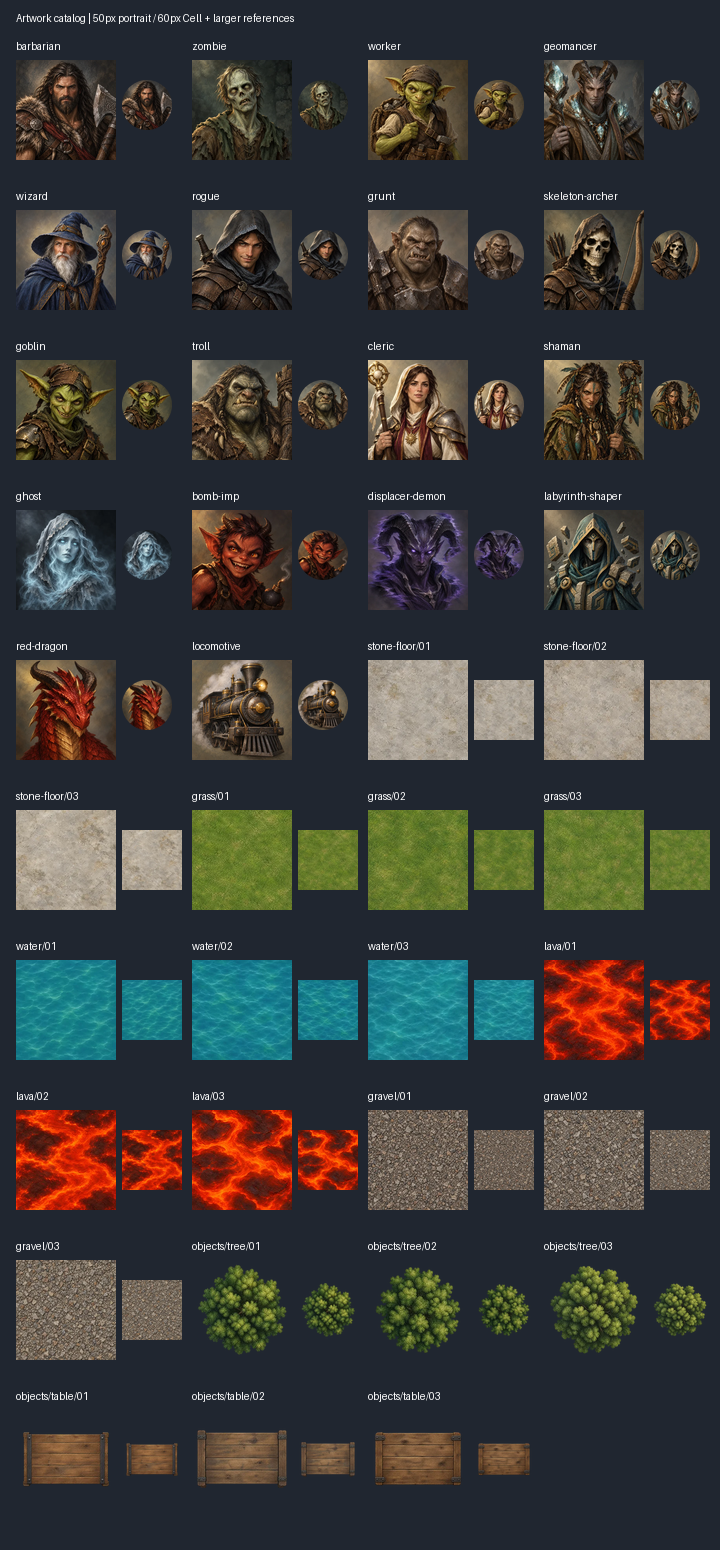
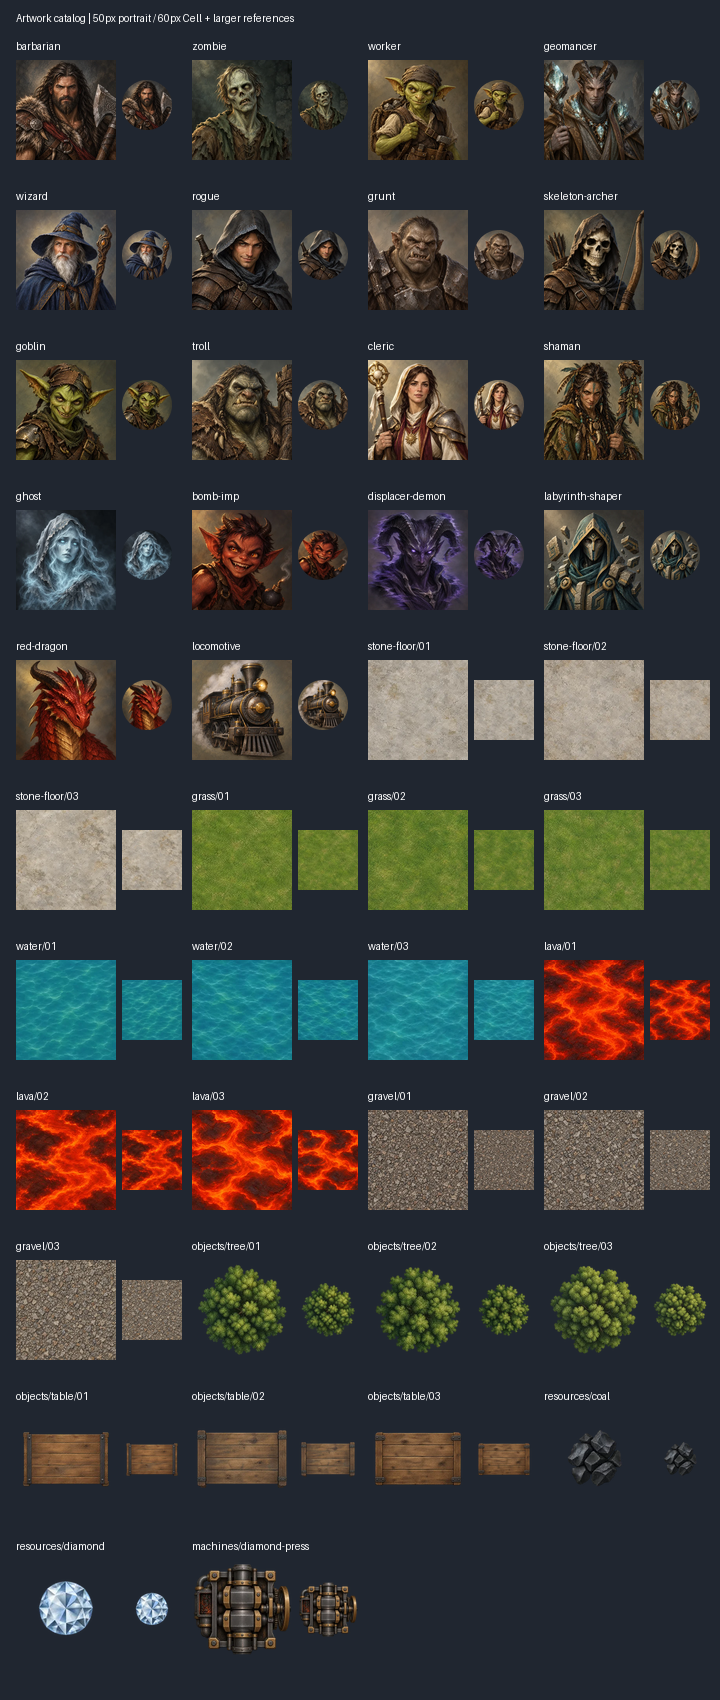
Integrate resource and Diamond Press artwork

diff --git a/ProjectDelve.Web/wwwroot/board-visuals.js b/ProjectDelve.Web/wwwroot/board-visuals.js
@@ -57,11 +57,14 @@ export const boardVisuals = {
     "red-dragon-type": { image: "./art/units/red-dragon.webp" },
     "locomotive-type": { image: "./art/units/locomotive.webp" }
   },
-  machine: { default: { fill: "#566776", detail: "linear-gradient(135deg, #c8bb8d, #3b4955 45%, #182b36)", glyph: "⚙" } },
+  machine: {
+    default: { fill: "#566776", detail: "linear-gradient(135deg, #c8bb8d, #3b4955 45%, #182b36)", glyph: "⚙" },
+    "diamond-press": { image: "./art/machines/diamond-press.webp", baseTerrain: "StoneFloor" }
+  },
   resource: {
     default: { fill: "#e0c795", glyph: "●" },
-    diamond: { fill: "#b8ecf4", glyph: "◆" },
-    coal: { fill: "#ccc2af", glyph: "●" }
+    diamond: { fill: "#b8ecf4", glyph: "◆", image: "./art/resources/diamond.webp" },
+    coal: { fill: "#ccc2af", glyph: "●", image: "./art/resources/coal.webp" }
   },
   edge: {
     default: { fill: "#45494b", detail: "repeating-linear-gradient(45deg, transparent 0 8px, #e3dcc53a 9px 10px, transparent 11px 18px)" },
@@ -166,7 +169,34 @@ export function applyBoardVisual(node, category, id, context = {}) {
     applyRailArtwork(node, id === "Rail" ? context : null);
   }
   if (category === "edge") applyEdgeArtwork(node, visual.image);
+  if (category === "machine" || category === "resource") applyObjectArtwork(node, visual);
   return visual;
+}
+
+function applyObjectArtwork(node, visual) {
+  // Glyphs remain the Classic presentation and the loading/error fallback.
+  let glyph = node.visualGlyph;
+  if (!glyph) {
+    glyph = document.createElement("span"); glyph.className = "visual-glyph";
+    glyph.setAttribute("aria-hidden", "true"); node.visualGlyph = glyph;
+  }
+  glyph.textContent = visual.glyph ?? ""; node.append(glyph);
+  let image = node.objectArtwork;
+  if (!visual.image) {
+    image?.remove(); node.objectArtwork = null; delete node.dataset.artwork;
+    return;
+  }
+  if (!image) {
+    image = document.createElement("img"); image.className = "object-artwork";
+    image.alt = ""; image.draggable = false; image.setAttribute("aria-hidden", "true");
+    node.objectArtwork = image;
+    image.addEventListener("load", () => { if (node.objectArtwork === image) node.dataset.artwork = "ready"; });
+    image.addEventListener("error", () => { if (node.objectArtwork === image) node.dataset.artwork = "missing"; });
+  }
+  node.append(image);
+  if (image.dataset.source !== visual.image) {
+    node.dataset.artwork = "loading"; image.dataset.source = visual.image; image.src = visual.image;
+  }
 }
 
 function applyRailArtwork(node, context) {

diff --git a/ProjectDelve.Web/wwwroot/board-enhanced.css b/ProjectDelve.Web/wwwroot/board-enhanced.css
@@ -3,6 +3,9 @@
 .board-view-toolbar { margin-bottom: 12px; }
 .board-scroll:has(#board[data-view="enhanced"]) { overflow: auto; padding: 5px; }
 .machine-art { display: none !important; }
+#board .machine-labels { display: contents; font-size: inherit; }
+#board .visual-glyph { font-size: inherit; }
+#board .object-artwork { display: none; pointer-events: none; }
 #board .terrain-object-artwork { display: none; pointer-events: none; }
 #board .edge-artwork { display: none; pointer-events: none; }
 #board[data-view="enhanced"] {
@@ -190,6 +193,29 @@
 #board[data-view="enhanced"] .figure.affected-preview { outline: 3px dashed #ffe084; outline-offset: 2px; }
 /* Reserve the top-right Cell corner for Resources, clear of the bottom nameplate. */
 #board[data-view="enhanced"] .resource-marker { top: 2%; bottom: auto; right: 2%; font-size: clamp(12px, calc(var(--cell-size) * .23), 20px); }
+
+/* Transparent object images replace glyphs only after a successful load. */
+#board[data-view="enhanced"] [data-artwork="ready"] > .visual-glyph { visibility: hidden; }
+#board[data-view="enhanced"] [data-artwork="ready"] > .object-artwork {
+  display: block; position: absolute; inset: 0; width: 100%; height: 100%;
+  object-fit: contain; object-position: center;
+}
+#board[data-view="enhanced"] .resource-marker:has(.object-artwork) {
+  display: grid; place-items: center; width: 24px; height: 24px; padding: 0;
+}
+#board[data-view="enhanced"] .resource-marker[data-artwork="ready"] {
+  background: transparent; border: 0; box-shadow: none;
+  filter: drop-shadow(0 1px 1px #111);
+}
+#board[data-view="enhanced"] .machine-cell:has(.object-artwork) .machine-art {
+  position: absolute; inset: 0; width: 100%; height: 100%; border: 0; border-radius: 0;
+}
+#board[data-view="enhanced"] .machine-art[data-artwork="ready"] { background: transparent; }
+#board[data-view="enhanced"] .machine-cell:has(.object-artwork) .machine-labels {
+  display: flex; flex-direction: column; align-items: center; position: absolute;
+  bottom: 2%; left: 2%; right: 2%; z-index: 1; pointer-events: none;
+  background: #18232cdd; border-radius: 3px; line-height: 1.1;
+}
 /* Specific token appearance must not mask shared playback feedback. */
 #board[data-view="enhanced"] .figure.attack-source { box-shadow: 0 0 0 4px #7edfe6; }
 #board[data-view="enhanced"] .figure.attack-target { outline: 3px solid #ffad8e; outline-offset: 3px; }

diff --git a/ProjectDelve.Web/wwwroot/app.js b/ProjectDelve.Web/wwwroot/app.js
@@ -247,12 +247,17 @@ function renderBoard(state, preserveNodes = false, machines = snapshot.presentat
     if (!node) continue;
     node.classList.add("machine-cell");
     const art = text("span", ""); art.className = "machine-art";
-    art.textContent = applyBoardVisual(art, "machine", machine.typeId).glyph;
+    const visual = applyBoardVisual(art, "machine", machine.typeId);
+    if (visual.baseTerrain) applyBoardVisual(node, "terrain", visual.baseTerrain, {
+      seed: snapshot.visualSeed ?? `scenario:${snapshot.scenarioId ?? "legacy"}`,
+      x: machine.position.x, y: machine.position.y });
     art.setAttribute("aria-hidden", "true"); node.append(art);
-    node.append(text("span", machine.name));
-    node.append(text("small", machine.ownerSide == null ? "Public" : `Owner: ${machine.ownerSide}`));
+    const labels = text("span", ""); labels.className = "machine-labels";
+    labels.append(text("span", machine.name));
+    labels.append(text("small", machine.ownerSide == null ? "Public" : `Owner: ${machine.ownerSide}`));
     for (const stored of machine.resourceStorage)
-      node.append(text("small", `${stored.name}: ${stored.quantity}/${stored.capacity}`));
+      labels.append(text("small", `${stored.name}: ${stored.quantity}/${stored.capacity}`));
+    node.append(labels);
     node.title = `${machine.name} (${machine.id}) - ${machine.ownerSide == null ? "Public" : `Owner: ${machine.ownerSide}`}: ${machine.operation}`;
     node.setAttribute("aria-label", `${node.title}. ${machine.resourceStorage.map(r => `${r.name}: ${r.quantity}/${r.capacity}`).join(", ")}`);
   }
@@ -261,7 +266,7 @@ function renderBoard(state, preserveNodes = false, machines = snapshot.presentat
     if (!node) continue;
     const marker = text("span", "");
     marker.className = "resource-marker";
-    marker.textContent = applyBoardVisual(marker, "resource", resource.type.id).glyph;
+    applyBoardVisual(marker, "resource", resource.type.id);
     marker.title = resource.type.name;
     marker.setAttribute("aria-label", resource.type.name);
     node.append(marker);

diff --git a/tools/prepare-artwork.py b/tools/prepare-artwork.py
@@ -31,6 +31,8 @@ ASSETS = [
       for name in ("stone-floor", "grass", "water", "lava", "gravel") for i in range(1, 4)],
     *[(f"terrain/objects/{name}-{i:02}.png", f"terrain/objects/{name}/{i:02}.webp", 256)
       for name in ("tree", "table") for i in range(1, 4)],
+    *[(f"resources/{name}.png", f"resources/{name}.webp", 128) for name in ("coal", "diamond")],
+    ("machines/diamond-press.png", "machines/diamond-press.webp", 256),
     *[(f"edges/{name}.png", f"edges/{name}.webp", (512, 80)) for name in EDGE_CROPS],
 ]
 
@@ -63,7 +65,7 @@ def main():
                 assert original.size == (1774, 887) and original.mode == "RGBA", f"Review changed Edge source: {name}"
                 bounds = original.getchannel("A").point(lambda a: 255 if a >= 8 else 0).getbbox()
                 assert bounds == EDGE_CROPS[Path(name).stem], f"Review changed Edge composition: {name}"
-            if name.startswith("terrain/objects/"):
+            if name.startswith(("terrain/objects/", "resources/", "machines/")):
                 alpha = original.convert("RGBA").getchannel("A")
                 assert alpha.getextrema()[0] == 0 and alpha.getextrema()[1] > 0, f"Review object alpha: {name}"
             assert getattr(original, "n_frames", 1) == 1, f"Review animated source: {name}"
@@ -120,6 +122,7 @@ def main():
     edge_preview([image for asset, image in zip(assets, decoded) if asset[0].startswith("edges/")])
     if not args.edges_only:
         composite_preview(assets, decoded)
+        object_preview(assets, decoded)
         export_tracks(SOURCE, OUTPUT / "railway")
         preview_tracks(SOURCE, OUTPUT, ROOT / "assets/previews/railway.png")
     assert all(sha256(path.read_bytes()).digest() == digest
@@ -167,6 +170,31 @@ def composite_preview(assets, images):
                 if turn == 0:
                     sheet.paste(tile.resize((160, 160), Image.Resampling.LANCZOS), (12 + variant * 248, y + 64))
     sheet.save(ROOT / "assets/previews/composite-terrain.png", optimize=True)
+
+
+def object_preview(assets, images):
+    """Test-owned Machine/Resource samples at minimum and normal Cell sizes."""
+    catalog = {asset[1]: image for asset, image in zip(assets, images)}
+    sheet = Image.new("RGB", (720, 300), "#202630")
+    draw = ImageDraw.Draw(sheet)
+    draw.text((12, 10), "Machines / Resources | 24px markers | 60px + 100px Cells", fill="white")
+    for row, size in enumerate((60, 100)):
+        for col, base in enumerate(("stone-floor", "grass", "gravel")):
+            for i, resource in enumerate(("coal", "diamond")):
+                x, y = 12 + col * 232 + i * 108, 46 + row * 116
+                tile = catalog[f"terrain/{base}/01.webp"].resize((size, size), Image.Resampling.LANCZOS)
+                if col == 0:
+                    machine = catalog["machines/diamond-press.webp"].resize((size, size), Image.Resampling.LANCZOS)
+                    tile = Image.alpha_composite(tile, machine)
+                    label = ImageDraw.Draw(tile)
+                    label.rectangle((1, size-27, size-1, size-1), fill="#18232cdd")
+                    for line, text in enumerate(("Press", "Public", "Coal: 3/3")):
+                        label.text((2, size-27 + line*9), text, fill="white", font_size=8)
+                marker = catalog[f"resources/{resource}.webp"].resize((24, 24), Image.Resampling.LANCZOS)
+                tile.alpha_composite(marker, (size-25, 1))
+                sheet.paste(tile, (x, y))
+                draw.text((x, y+size+2), resource, fill="white")
+    sheet.save(ROOT / "assets/previews/machines-resources.png", optimize=True)
 
 
 def edge_preview(images):

diff --git a/tools/test_prepare_artwork.py b/tools/test_prepare_artwork.py
@@ -21,6 +21,21 @@ spec.loader.exec_module(pipeline)
 
 
 class CompositeArtworkTests(unittest.TestCase):
+    def test_machine_and_resource_alpha_survives_export_without_crop(self):
+        for category, name, size in (("machines", "diamond-press", 256),
+                                     ("resources", "coal", 128), ("resources", "diamond", 128)):
+            source, destination = f"{category}/{name}.png", f"{category}/{name}.webp"
+            with self.subTest(source=source):
+                self.assertIn((source, destination, size), pipeline.ASSETS)
+                with Image.open(pipeline.SOURCE / source) as original:
+                    original.load()
+                    expected = ImageOps.exif_transpose(original).convert("RGBA").resize((size, size), Image.Resampling.LANCZOS)
+                with Image.open(pipeline.OUTPUT / destination) as exported:
+                    exported.load()
+                    self.assertEqual(exported.size, (size, size))
+                    self.assertEqual(exported.getchannel("A").tobytes(), expected.getchannel("A").tobytes())
+                    self.assertEqual(exported.getchannel("A").getextrema(), (0, 255))
+
     def test_track_generation_reproduces_committed_assets(self):
         with tempfile.TemporaryDirectory() as directory:
             generated = Path(directory)

diff --git a/README.md b/README.md
@@ -145,8 +145,8 @@ All 39 source originals are registered; every runtime asset has a source. Existi
 | Open Door | 512 × 80 horizontal master | Transparent central gap with posts/threshold; renderer rotates for vertical Edges | 1 design, 2 orientations |
 | Barbarian and Zombie portraits | 512 × 512 each, 1:1 | Square source, UI applies circular crop; opaque painted background preferred, alpha supported over the dark fallback; face/focal detail inside central 70%, reserve lower 30% for nameplate and upper 20% for HP | 2 portraits |
 | Gravel / Rail | 256 × 256, 1:1 | Three opaque Gravel variants; four transparent SVG track shapes with exact edge ports and separate procedural arrow | Integrated; browser review pending |
-| Later Coal / Diamond | 256 × 256, 1:1 | Transparent exterior, object centered within 80%, readable at 14–20 pixels | After pilot review |
-| Later Diamond Press | 512 × 512, 1:1 | Transparent exterior, centered within 80%; no ownership labels or storage text | After pilot review |
+| Coal / Diamond | 128 × 128, 1:1 | Transparent exterior and original margins; displayed in 24px top-right markers | Integrated; browser review pending |
+| Diamond Press | 256 × 256, 1:1 | Transparent exterior; full-Cell object over Stone Floor; ownership and storage text composed separately | Integrated; browser review pending |
 
 **Artwork pack 01 exports:** the user-supplied generated originals in `assets/source/` are seven opaque RGB PNGs, each 1254 × 1254 with no embedded color profile. `tools/prepare-artwork.py` uses build-time Pillow with WebP support (`python -m pip install Pillow`, then `python tools/prepare-artwork.py`). It treats untagged sources as sRGB, exports with an sRGB profile, uses Lanczos resampling, WebP quality 85 / method 6, and preserves any alpha losslessly. There is no crop, padding, retouching or runtime image dependency. The script checks complete decoding, exact dimensions and unchanged source hashes.
 
@@ -247,6 +247,20 @@ var state = GameEngine.CreateGame(definition);
 ```
 
 `Define` derives normal Type order from first group occurrence; its optional `unitTypeIds` argument preserves explicitly authored order and unplaced Types. `GameEngine.CreateGame` resolves canonical IDs, validates data and normal full-footprint setup legality, and returns independent mutable round-zero state with deterministic generated Unit IDs. It does not draw tokens or invoke providers; `StartRound` still initializes the activation bag and advances play. Catalog presentation remains separate. The console detour and courtyard API fixture use the same creation boundary, including the courtyard's wounded Wizard and unplaced Goblin Type. `ScenarioDefinitionJson` serializes concrete initial setup; `ScenarioDefinitionTransport` wraps that JSON in portable `DELVE1:` strings. Browser imports enter the same creation boundary and restart retains the imported definition.
+
+### Resource and Machine artwork
+
+Coal and Diamond render as 24px top-right markers in Enhanced 2D. Diamond Press fills its Cell over the existing Stone Floor texture catalog, with its name, Owner Side and storage labels layered separately along the bottom. This base is presentation only; scenario terrain and Classic View remain unchanged. Images use `object-fit: contain` without cropping or distortion. Glyphs remain visible while loading and after errors; Classic retains glyphs. Unknown Machine/Resource IDs retain category fallbacks. Decorative images ignore pointer input, and choices remain on the authoritative Cell.
+
+| Original under `assets/source/` | Catalog key | Runtime under `wwwroot/art/` | Export / bytes |
+|---|---|---|---|
+| `resources/coal.png` | `resource.coal` | `resources/coal.webp` | 128 × 128 / 3,598 |
+| `resources/diamond.png` | `resource.diamond` | `resources/diamond.webp` | 128 × 128 / 4,786 |
+| `machines/diamond-press.png` | `machine["diamond-press"]` | `machines/diamond-press.webp` | 256 × 256 / 21,962 |
+
+These three new originals are 1254 × 1254 RGBA PNGs with genuine alpha, no embedded profiles, EXIF orientation or animation. The full `tools/prepare-artwork.py` pipeline exports them with the existing sRGB/Lanczos/WebP quality 85/method 6 settings and verifies lossless resized alpha. Originals keep their transparent margins. All 47 source files are accounted for: 45 direct exports plus the two railway material components. No runtime assets lack sources. Full re-export confirmed identical decoded pixels/profiles for all 42 previous WebPs apart from ICC creation dates, and their original bytes were retained. No variant counts, ordering, hash algorithms or seed lifecycle changed.
+
+The updated [catalog sheet](assets/previews/artwork-pack-01.png) includes all three assets. The [Machine/Resource composition preview](assets/previews/machines-resources.png) shows 24px markers over Stone Floor, Grass and Gravel, plus full-Cell Press compositions at 60px and 100px. The preview uses test-owned samples and approximate labels; it is not browser approval. No connected browser was available for actual layout review; label crowding, overlays and image visibility still need that review.
 
 ### Gravel and procedural railway artwork
 
